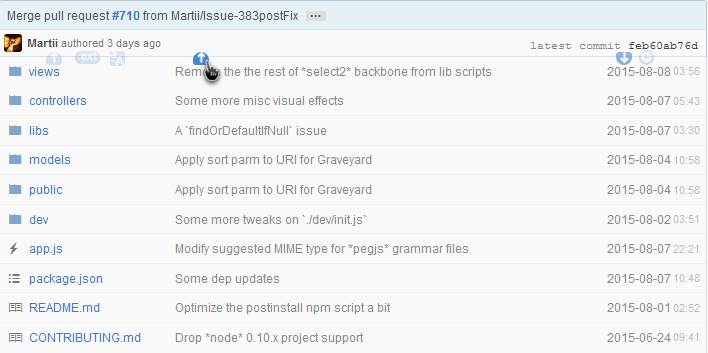
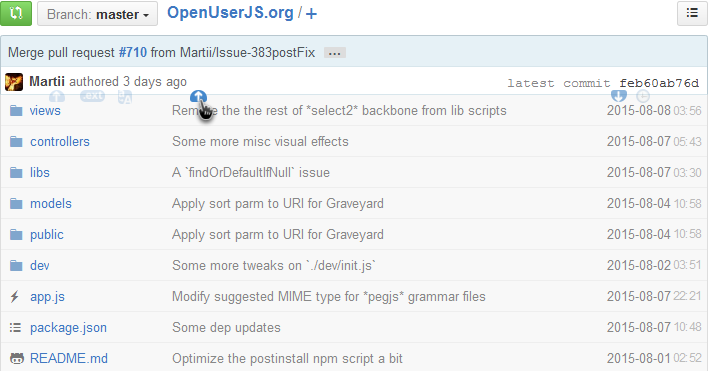
GitHub Sortable Filelist
15.08.11 ++ octicons for file extensions

diff --git a/src/GitHub_Sortable_Filelist.user.js b/src/GitHub_Sortable_Filelist.user.js
@@ -3,8 +3,8 @@
 // @namespace   trespassersW
 // @description appends sorting function to github directories
 // @include https://github.com/*
-// @version 15.08.10
-// 15.08.10  + octicons for file extensions
+// @version 15.08.11
+// 15.08.11 ++ octicons for file extensions
 // 15.08.07  + case-insensitive sorting
 // 15.05.07  sorting is now faster
 // 14.11.19.13 fixes for latest github changes
@@ -44,28 +44,31 @@ var catcher,locStor;
 var prefs={dtStyle:0, ext: 0, upc: 1};
 var W= unsafeWindow || window;
 
-// see: https://octicons.github.com/
+// see: https://octicons.github.com/ mark-github
 var extIcon=[
 //0...........1..............2..............3..............4.......
- "book"     ,"zap"        ,"list-unordered","paintcan"   ,"eye"
+ "octoface"  ,"zap"        ,"list-unordered","paintcan"   ,"eye"
 //5...........6..............7..............8..............9.......
-,"globe"    ,"file-binary" ,"file-zip"     ,"file-pdf"   ,"unmute"
+,"globe"    ,"file-binary" ,"file-zip"      ,"file-pdf"   ,"megaphone"
 //10..........11.............12.............13.............14......
-,"gear"     ,"code"
+,"gear"     ,"triangle-right","ruby"        ,"info"       ,"device-camera"     
 ]
 var extList={ 
 md:0,
-js:1,rb:1,py:1,sh:1,pl:1,jsm:1,
-json:2,xml:2,xul:2,rdf:2,
-css:3,
-png:4,jpg:4,jpeg:4,bmp:4,gif:4,cur:4,ico:4,svg:4,
+js:1,sh:1,pl:1,jsm:1,
+json:2,xml:2,xul:2,rdf:2,yml:2,
+css:3,scss:3,
+png:4,bmp:4,gif:4,cur:4,ico:4,svg:4,
 htm:5,html:5,php:5,
 bin:6,exe:6,
 zip:7,rar:7,arj:7,
 pdf:8,rtf:8,
 wav:9,mp3:9,ogg:9,
 cfg:10,ini:10,
-c:11,cpp:11,cc:11,h:11,hpp:11,asm:11
+c:11,cpp:11,cc:11,h:11,hpp:11,asm:11,
+rb:12,py:12,
+EmptyExt:13,
+jpg:14,jpeg:14
 }
 
 function stickStyle(css){
@@ -245,7 +248,7 @@ function d2s(n){
 var xmatch=/(.*)\.(.*)$/;
 function filext(x){
  var m= x.match(xmatch);
- if(!m || !m[2]) return "txt";
+ if(!m || !m[2]) return "EmptyExt";
  return m[2];
 }
 function setIcon(tr){
@@ -258,7 +261,7 @@ function setIcon(tr){
   xt=extList[xt];
   if(typeof xt === "undefined") return;
   ti.className='octicon octicon-'+ extIcon[xt];
-  _l('setIcon '+xt);
+  //_l('setIcon '+xt);
 }
 
 function setDateTime(x){
